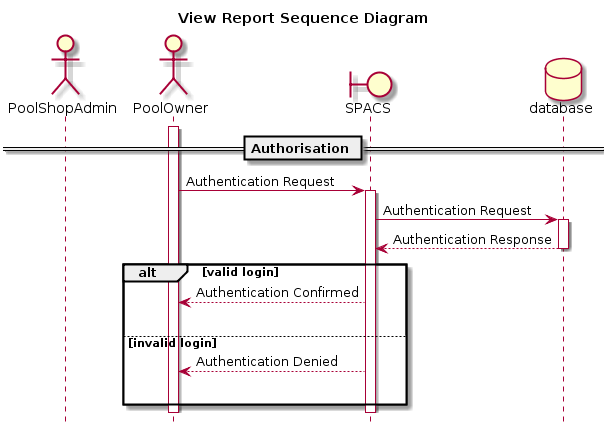
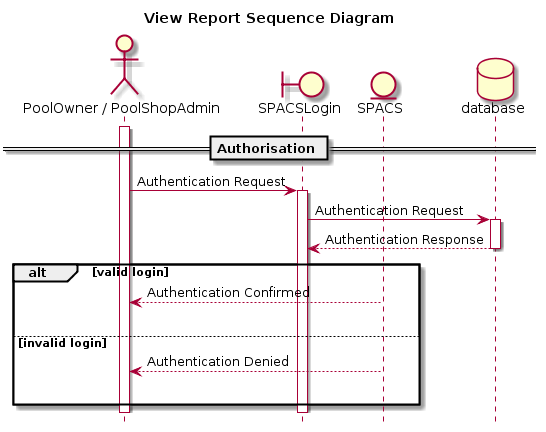
ViewReport UML changes, draft new db relationships and new forms.

diff --git a/application.py b/application.py
@@ -10,8 +10,6 @@ from flask.ext.bcrypt import Bcrypt
 from flask_wtf import Form
 from wtforms import StringField, PasswordField, SubmitField
 from wtforms.validators import DataRequired
-# from wtforms import ValidationError
-
 
 app = Flask(__name__)
 app.config['SQLALCHEMY_DATABASE_URI'] = 'sqlite:///data.db'
@@ -33,12 +31,15 @@ def load_user(user_id):
 class User(db.Model, UserMixin, AnonymousUserMixin):
     __tablename__ = 'users'
     id = db.Column(db.Integer(), primary_key=True)
+
     login_name = db.Column(db.String(), unique=True, index=True)
     password = db.Column(db.String(128))
     name = db.Column(db.String())
     address = db.Column(db.Text())
     email = db.Column(db.String())
     role = db.Column(db.String())
+
+    pools = db.relationship('Pool', backref='user', lazy='dynamic')
 
     def __init__(self, login_name, password):
         self.login_name = login_name
@@ -81,45 +82,37 @@ class SPACSAdmin(User, db.Model):
         self.role = 'SPACSAdmin'
 
 
-"""class User(db.Model, UserMixin):
-    __tablename__ = 'users'
+class Pool(db.Model):
+    __tablename__ = 'pools'
     id = db.Column(db.Integer(), primary_key=True)
-    login_name = db.Column(db.String(), unique=True, index=True)
-    password = db.Column(db.String(128))
 
-    name = db.Column(db.String())
-    address = db.Column(db.Text())
-    email = db.Column(db.String())
+    length = db.Column(db.Float())
+    width = db.Column(db.Float())
+    depth = db.Column(db.Float())
+    material = db.Column(db.String())
+    pool_type = db.Column(db.String())
 
-    discriminator = db.Column(db.String())
-    __mapper_args__ = {'polymorphic_on': discriminator}
-
-    def __init__(self, login_name, password):
-        self.login_name = login_name
-        self.password = flask_bcrypt.generate_password_hash(password)
-
-    def check_password(self, value):
-        return flask_bcrypt.check_password_hash(self.password_hash, value)
-
-    def is_authenticated(self):
-        if isinstance(self, AnonymousUserMixin):
-            return False
-        else:
-            return True
-
-    def is_active(self):
-        return True
-
-    def is_anonymous(self):
-        if isinstance(self, AnonymousUserMixin):
-            return True
-        else:
-            return False
+    owner_id = db.Column(db.Integer, db.ForeignKey('user.id'))
+    shop_id = db.Column(db.Integer, db.ForeignKey('shop.id'))
+    reports = db.relationship('Report', backref='pool', lazy='dynamic')
 
 
+class PoolShop(db.Model):
+    __tablename__ = 'pool_shops'
+    id = db.Column(db.Integer(), primary_key=True)
 
-    def __repr__(self):
-        return '<User {}, type {}>'.format(self.username, self.discriminator)"""
+    shop_admin_id = db.Column(db.Integer, db.ForeignKey('user.id'))
+    pools = db.relationship('Pool', backref='shop', lazy='dynamic')
+
+
+class Report(db.Model):
+    __tablename__ = 'reports'
+    id = db.Column(db.Integer(), primary_key=True)
+
+    report = db.Column(db.Text())
+    date = db.Column(db.DateTime())
+
+    pool_id = db.Column(db.Integer, db.ForeignKey('pool.id'))
 
 
 class LoginForm(Form):
@@ -128,24 +121,12 @@ class LoginForm(Form):
     submit = SubmitField('Log In')
 
 
-class Pool(db.Model):
-    __tablename__ = 'pools'
-    id = db.Column(db.Integer(), primary_key=True)
-    ph = db.Column(db.Float())
-    orp = db.Column(db.Float())
-    ta = db.Column(db.Float())
-    temp = db.Column(db.Float())
-    water_hardness = db.Column(db.Float())
-    last_filter_operation = db.Column(db.DateTime())
-    water_flow_rate = db.Column(db.Float())
-    chlorinator_status = db.Column(db.String())
-    water_level_status = db.Column(db.String())
+class NewPoolForm(Form):
+    pass
 
-    # users = db.relationship('User', backref='pool', lazy='dynamic')
 
-    """owner_id =
-    shop_administrator_id =
-    spacs_administrator_id ="""
+class NewPoolShop(Form):
+    pass
 
 
 @app.route('/', methods=["GET", "POST"])
